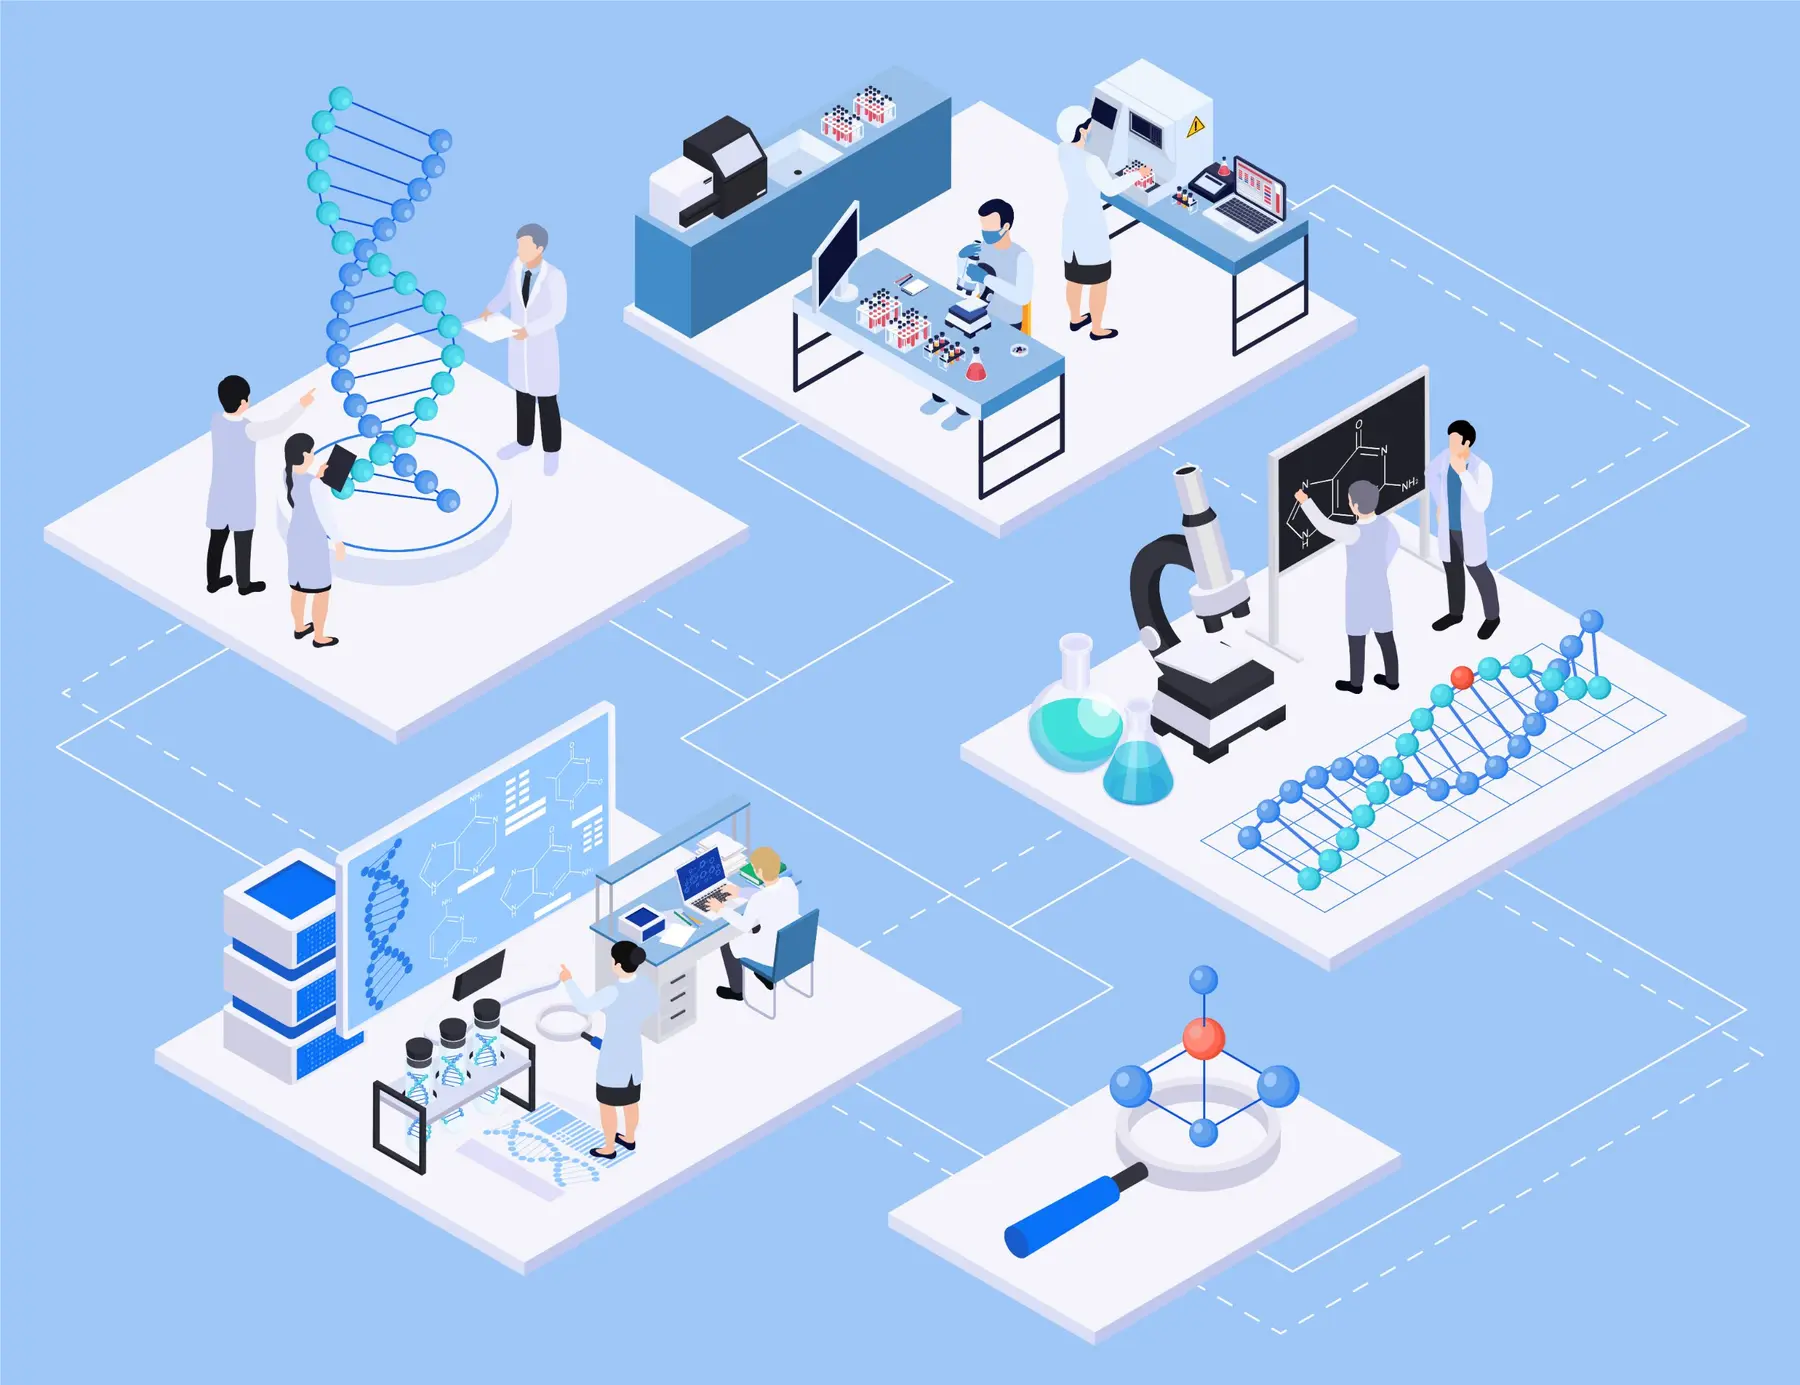
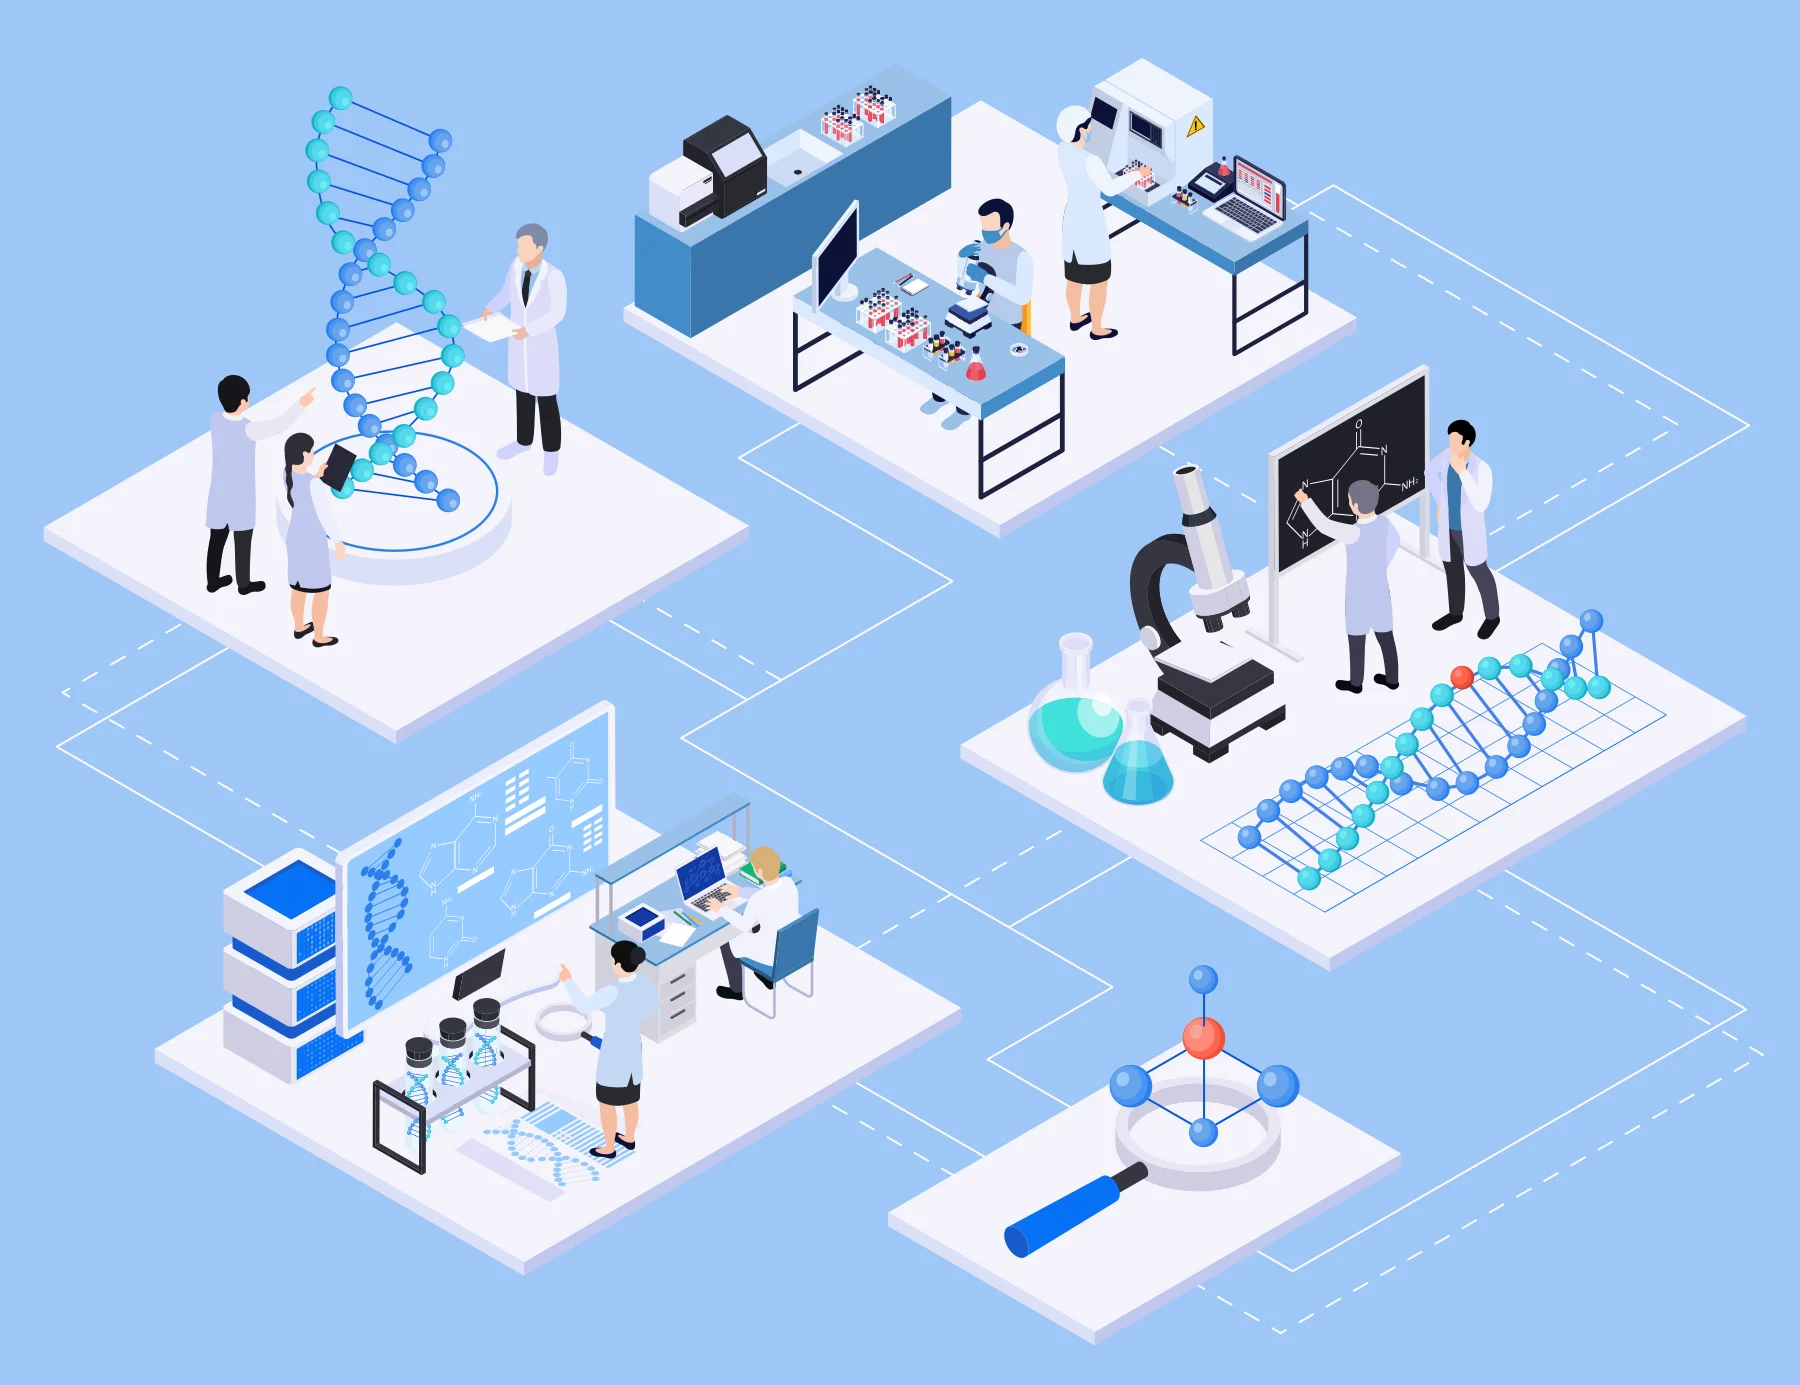
Lab: glow the hovered object and show its label only on hover
Claude-Session: https://claude.ai/code/session_01LzkvA4vbE8X6LYgCpGCddg

diff --git a/assets/style.css b/assets/style.css
@@ -156,13 +156,27 @@ img { max-width: 100%; height: auto; display: block; }
 }
 
 .lab-hits { position: absolute; inset: 0; width: 100%; height: 100%; }
-.lab-hits polygon { fill: transparent; stroke: transparent; stroke-width: 3; transition: fill .2s, stroke .2s; }
-.lab-hits a:hover polygon { fill: rgba(255, 255, 255, .35); stroke: var(--blue); }
+.lab-hits polygon { fill: transparent; cursor: pointer; }
+.lab-hits a:focus { outline: none; }
+
+.lab-glow {
+  position: absolute;
+  height: auto;
+  pointer-events: none;
+  opacity: 0;
+  filter:
+    drop-shadow(0 0 2px #fff)
+    drop-shadow(0 0 7px rgba(124, 196, 242, .95))
+    drop-shadow(0 0 16px rgba(37, 99, 235, .55))
+    brightness(1.06);
+  transition: opacity .25s ease;
+}
 
 .station {
   position: absolute;
-  transform: translate(-50%, -50%);
-  padding: .4rem .8rem;
+  top: max(var(--top), 2.8rem);
+  transform: translate(-50%, calc(-100% - 10px));
+  padding: .35rem .75rem;
   background: var(--paper);
   border: 1px solid var(--ink);
   border-radius: 6px;
@@ -171,13 +185,15 @@ img { max-width: 100%; height: auto; display: block; }
   font-size: 1.05rem;
   line-height: 1.25;
   white-space: nowrap;
+  pointer-events: none;
   box-shadow: 3px 3px 0 var(--ink);
-  transition: transform .15s, box-shadow .15s;
+  opacity: 0;
+  transition: opacity .2s ease;
 }
-.station:hover {
-  text-decoration: none;
-  transform: translate(calc(-50% - 2px), calc(-50% - 2px));
-  box-shadow: 5px 5px 0 var(--blue);
+
+/* Phones and tablets have no hover, so their labels stay visible. */
+@media (hover: none) {
+  .station { opacity: 1; top: var(--cy); transform: translate(-50%, -50%); }
 }
 
 /* cards (projects, publications, repos) */
@@ -242,8 +258,7 @@ img { max-width: 100%; height: auto; display: block; }
   .hero { grid-template-columns: 1fr; gap: 1.8rem; }
   .portrait { order: -1; max-width: 220px; }
   .lab { border-radius: 0; }
-  .station { padding: .3rem .45rem; font-size: .72rem; box-shadow: 2px 2px 0 var(--ink); }
-  .station::after { content: ""; position: absolute; inset: -8px; }
+  .station { padding: .2rem .4rem; font-size: .68rem; box-shadow: 2px 2px 0 var(--ink); }
   .simple-list li { grid-template-columns: 1fr; gap: .1rem; }
   .pmr div { grid-template-columns: 1fr; gap: 0; }
   .pmr dt { padding-top: 0; }

diff --git a/_includes/lab.html b/_includes/lab.html
@@ -1,11 +1,19 @@
 <div class="lab">
   <img src="/assets/img/lab.webp" alt="An isometric research lab where each object leads to a part of this site" width="1800" height="1385">
-  <svg class="lab-hits" viewBox="0 0 1000 769" aria-hidden="true">
-    {% for s in site.data.stations %}{% if s.points %}
-    <a href="{{ s.url }}" tabindex="-1"><polygon points="{{ s.points }}"/></a>
-    {% endif %}{% endfor %}
+  {% for s in site.data.stations %}
+  <img class="lab-glow" data-station="{{ s.slug }}" src="/assets/img/lab/{{ s.slug }}.webp" alt="" style="left: {{ s.left }}%; top: {{ s.top }}%; width: {{ s.width }}%;">
+  {% endfor %}
+  <svg class="lab-hits" viewBox="0 0 650 500">
+    {% for s in site.data.stations %}
+    <a href="{{ s.url }}" data-station="{{ s.slug }}" aria-label="{{ s.name }}"><polygon points="{{ s.hull }}"/></a>
+    {% endfor %}
   </svg>
   {% for s in site.data.stations %}
-  <a class="station" href="{{ s.url }}" style="left: {{ s.label_x }}%; top: {{ s.label_y }}%;">{{ s.name }}</a>
+  <span class="station" data-station="{{ s.slug }}" style="left: {{ s.label_x }}%; --top: {{ s.label_y }}%; --cy: {{ s.label_cy }}%;" aria-hidden="true">{{ s.name }}</span>
   {% endfor %}
 </div>
+<style>
+  {% for s in site.data.stations %}
+  .lab:has(a[data-station="{{ s.slug }}"]:is(:hover, :focus-visible)) [data-station="{{ s.slug }}"]{% if forloop.last %}{% else %},{% endif %}
+  {% endfor %} { opacity: 1; }
+</style>

diff --git a/README.md b/README.md
@@ -8,7 +8,7 @@ Most content lives in `_data/`, so updates rarely need HTML:
 
 | File | What it holds |
 |---|---|
-| `_data/stations.yml` | Lab platforms on the homepage and the navbar tabs (same list, same order) |
+| `_data/stations.yml` | Lab stations on the homepage and the navbar tabs (same list, same order) |
 | `_data/now.yml` | "Now" section on the homepage |
 | `_data/news.yml` | Recent news, newest first (homepage shows five) |
 | `_data/projects.yml` | Project cards: problem → method → result |
@@ -18,6 +18,10 @@ Most content lives in `_data/`, so updates rarely need HTML:
 Pages: `index.html`, `about.html` (journey map), `projects.html`, `publications.html`, `talks.html`, `open-science.html`, `contact.html`.
 
 Set `booking_url` and `cv` in `_config.yml` when they're ready.
+
+## Lab glow layers
+
+`assets/img/lab/*.webp` are the objects that light up on hover. They were cut from the vector (EPS) illustration, and their positions in `_data/stations.yml` match those files, so regenerate both together if the artwork changes.
 
 ## Run locally
 
